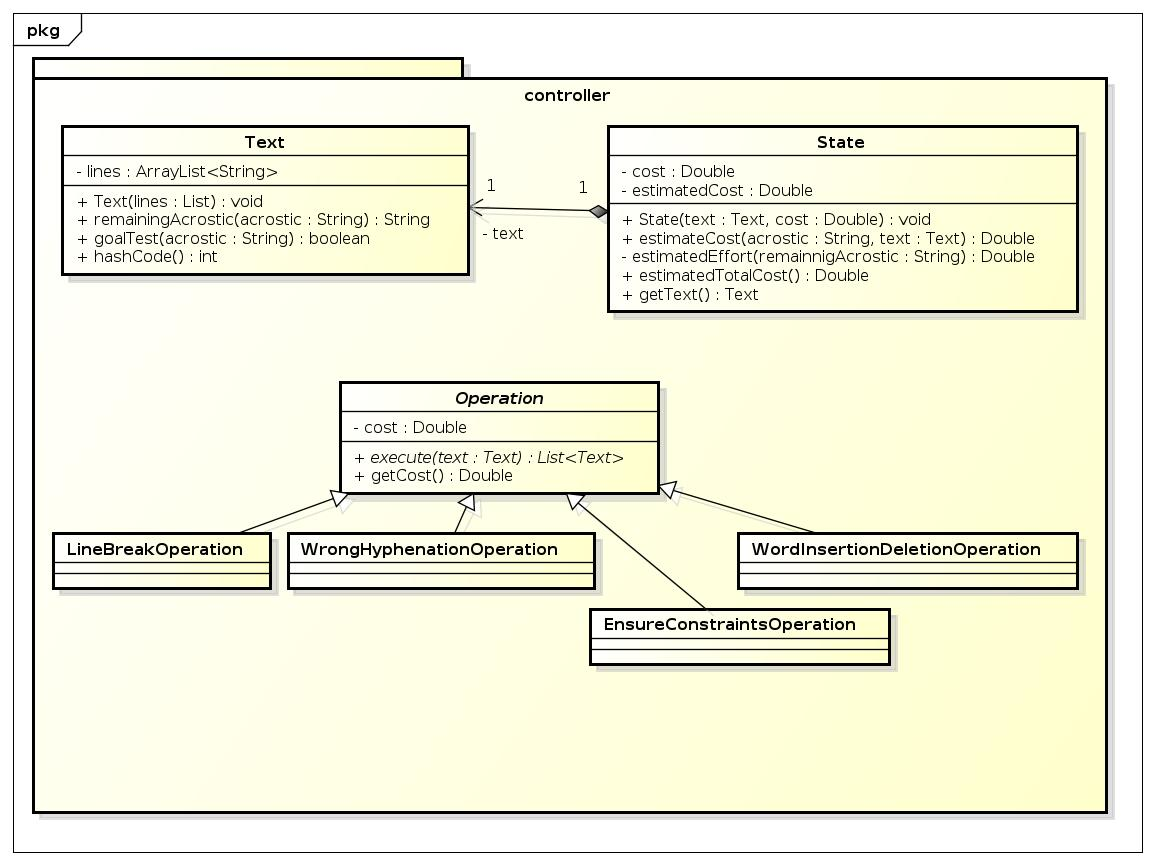
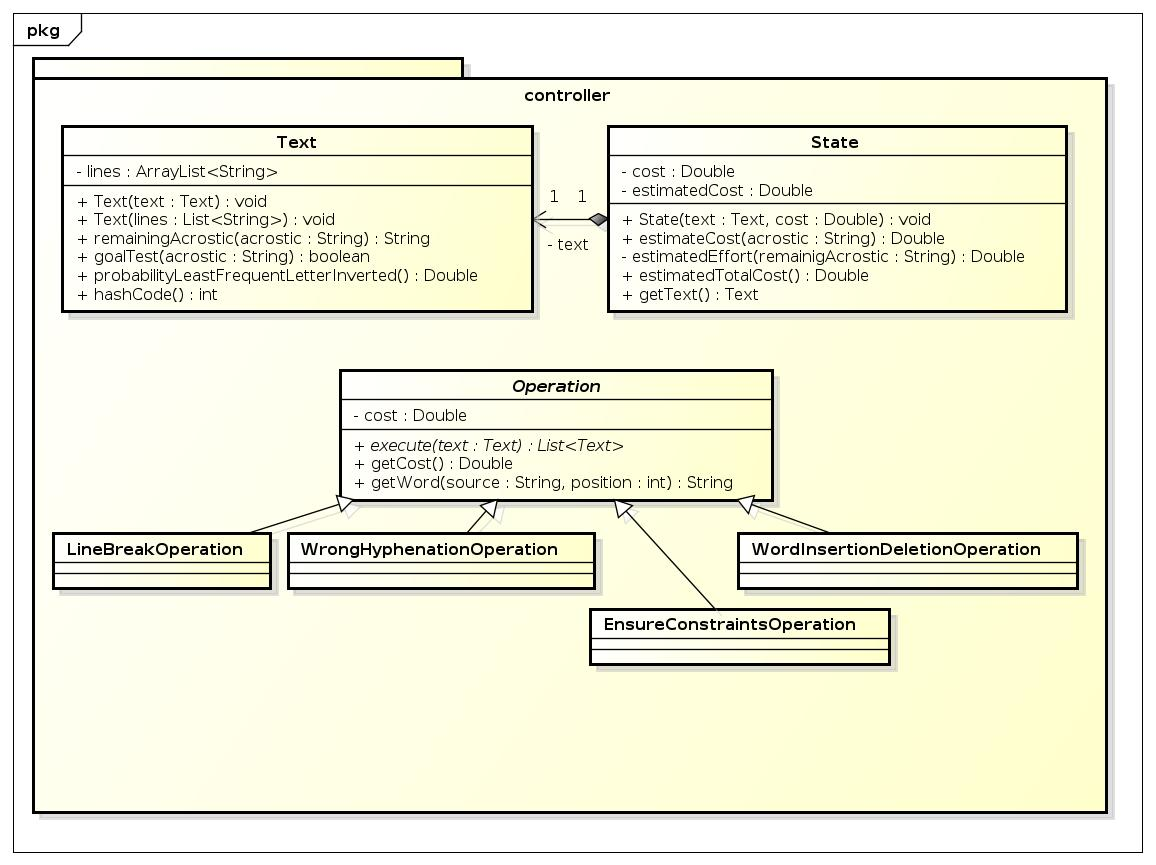
Development of the basic classes. Class Diagram updated

diff --git a/src/controller/Text.java b/src/controller/Text.java
@@ -3,24 +3,45 @@ package controller;
 import java.util.ArrayList;
 import java.util.List;
 import java.util.Objects;
+import model.LetterFrequency;
 
 public class Text {
 
     private ArrayList<String> lines;
 
     public void Text(Text text) {
+        if (text == null)
+            throw new IllegalArgumentException("Text: Parameter text must not be null");
+        
         Text(text.lines);
     }
     
     public void Text(List<String> lines) {
+        if (lines == null)
+            throw new IllegalArgumentException("Text: Parameter lines must not be null");
+        
         this.lines = new ArrayList<>(lines);
     }
 
     public String remainingAcrostic(String acrostic) {
-        return null;
+        if (acrostic == null)
+            throw new IllegalArgumentException("remainingAcrostic: Parameter acrostic must not be null");
+        
+        int acrosticsLength = acrostic.length();
+        
+        for (int i=0; i < acrosticsLength; i++) {
+            if (this.lines.get(i).charAt(0) != acrostic.charAt(i)) {
+                return acrostic.substring(i);
+            }
+        }
+        
+        return "";
     }
 
     public boolean goalTest(String acrostic) {
+        if (acrostic == null)
+            throw new IllegalArgumentException("goalTest: Parameter acrostic must not be null");
+        
         int acrosticsLength = acrostic.length();
         
         if (this.lines.size() < acrosticsLength) {
@@ -34,6 +55,21 @@ public class Text {
         }
         
         return true;
+    }
+    
+    public Double probabilityLeastFrequentLetterInversed(String remainingAcrostic) {
+        if (remainingAcrostic == null)
+            throw new IllegalArgumentException("probabilityLeastFrequentLetterInversed: Parameter remainigAcrostic must not be null");
+        
+        double leastFrequent = Double.NEGATIVE_INFINITY;
+        double curentValue;
+        for (int i=remainingAcrostic.length(); i>=0; i--) {
+            curentValue = LetterFrequency.getFrequencyInversed(remainingAcrostic.charAt(i));
+            if (curentValue > leastFrequent)
+                leastFrequent = curentValue;
+        }
+        
+        return leastFrequent;
     }
 
     @Override

diff --git a/src/controller/State.java b/src/controller/State.java
@@ -1,5 +1,7 @@
 package controller;
 
+import model.FirstLetterFrequency;
+
 public class State {
 
     private Double cost;
@@ -9,23 +11,45 @@ public class State {
     private Text text;
 
     public void State(Text text, Double cost) {
-
+        if (text == null)
+            throw new IllegalArgumentException("State: Parameter text must not be null");
+        if (cost == null)
+            throw new IllegalArgumentException("State: Parameter cost must not be null");
+        
+        this.text = text;
+        this.cost = cost;
+        this.estimatedCost = 0.0;
     }
 
-    public Double estimateCost(String acrostic, Text text) {
-            return null;
+    public Double estimateCost(String acrostic) {
+        if (acrostic == null)
+            throw new IllegalArgumentException("estimateCost: Parameter acrostic must not be null");
+        
+        String remainingAcrostic = this.text.remainingAcrostic(acrostic);
+        
+        this.estimatedCost = Math.log(this.estimatedEffort(remainingAcrostic))
+                            / Math.log(this.text.probabilityLeastFrequentLetterInversed(remainingAcrostic));
+        
+        return this.estimatedCost;
     }
 
-    private Double estimatedEffort(String remainnigAcrostic) {
-            return null;
+    private Double estimatedEffort(String remainigAcrostic) {
+        if (remainigAcrostic == null)
+            throw new IllegalArgumentException("estimatedEffort: Parameter remainigAcrostic must not be null");
+        
+        double result = 1.0;
+        for (int i=remainigAcrostic.length()-1; i>=0; i--) {
+            result *= FirstLetterFrequency.getFrequencyInversed(remainigAcrostic.charAt(i));
+        }
+        return result;
     }
 
     public Double estimatedTotalCost() {
-            return null;
+        return this.cost + this.estimatedCost;
     }
 
     public Text getText() {
-            return null;
+        return this.text;
     }
 
 }

diff --git a/src/model/FirstLetterFrequency.java b/src/model/FirstLetterFrequency.java
@@ -1,5 +1,23 @@
 package model;
 
-public class FirstLetterFrequency {
+import java.util.HashMap;
+import java.util.Map;
 
+public class FirstLetterFrequency {
+    
+    private static final char letters[] = {'e','n','s','r','i','a','t','d','h','u','l','g','c','o','m','w','b','f','k','z','ü','v','p','ö','ä','ß','j','y','x','q'};
+    private static final double[] inverseFrequence = {6.0990485484,10.2291325696,13.7494843943,14.2795944595,15.2671755725,15.3468385513,16.2495937602,19.7005516154,21.8483722963,24.0038406145,29.0951411114,33.233632436,36.6032210835,38.5505011565,39.4632991318,52.0562207184,53.0222693531,60.38647343,70.5716302047,88.1834215168,100.5025125628,118.2033096927,149.2537313433,174.520069808,223.7136465324,325.7328990228,373.1343283582,2564.1025641026,2941.1764705882,5555.5555555556};
+
+    private static Map<Character, Double> frequencyMap = null;
+    
+    public static double getFrequencyInversed(char c) {
+        // Lazy initialization of map
+        if (frequencyMap == null) {
+            frequencyMap = new HashMap<>();
+            for (int i=0; i<letters.length; i++)
+                frequencyMap.put(letters[i], inverseFrequence[i]);
+        }
+        
+        return frequencyMap.get(c);
+    }
 }

diff --git a/src/model/LetterFrequency.java b/src/model/LetterFrequency.java
@@ -1,5 +1,23 @@
 package model;
 
+import java.util.HashMap;
+import java.util.Map;
+
 public class LetterFrequency {
 
+    private static final char letters[] = {'e','n','s','r','i','a','t','d','h','u','l','g','c','o','m','w','b','f','k','z','ü','v','p','ö','ä','ß','j','y','x','q'};
+    private static final double[] inverseFrequence = {6.0990485484,10.2291325696,13.7494843943,14.2795944595,15.2671755725,15.3468385513,16.2495937602,19.7005516154,21.8483722963,24.0038406145,29.0951411114,33.233632436,36.6032210835,38.5505011565,39.4632991318,52.0562207184,53.0222693531,60.38647343,70.5716302047,88.1834215168,100.5025125628,118.2033096927,149.2537313433,174.520069808,223.7136465324,325.7328990228,373.1343283582,2564.1025641026,2941.1764705882,5555.5555555556};
+
+    private static Map<Character, Double> frequencyMap = null;
+    
+    public static double getFrequencyInversed(char c) {
+        // Lazy initialization of map
+        if (frequencyMap == null) {
+            frequencyMap = new HashMap<>();
+            for (int i=0; i<letters.length; i++)
+                frequencyMap.put(letters[i], inverseFrequence[i]);
+        }
+        
+        return frequencyMap.get(c);
+    }
 }
